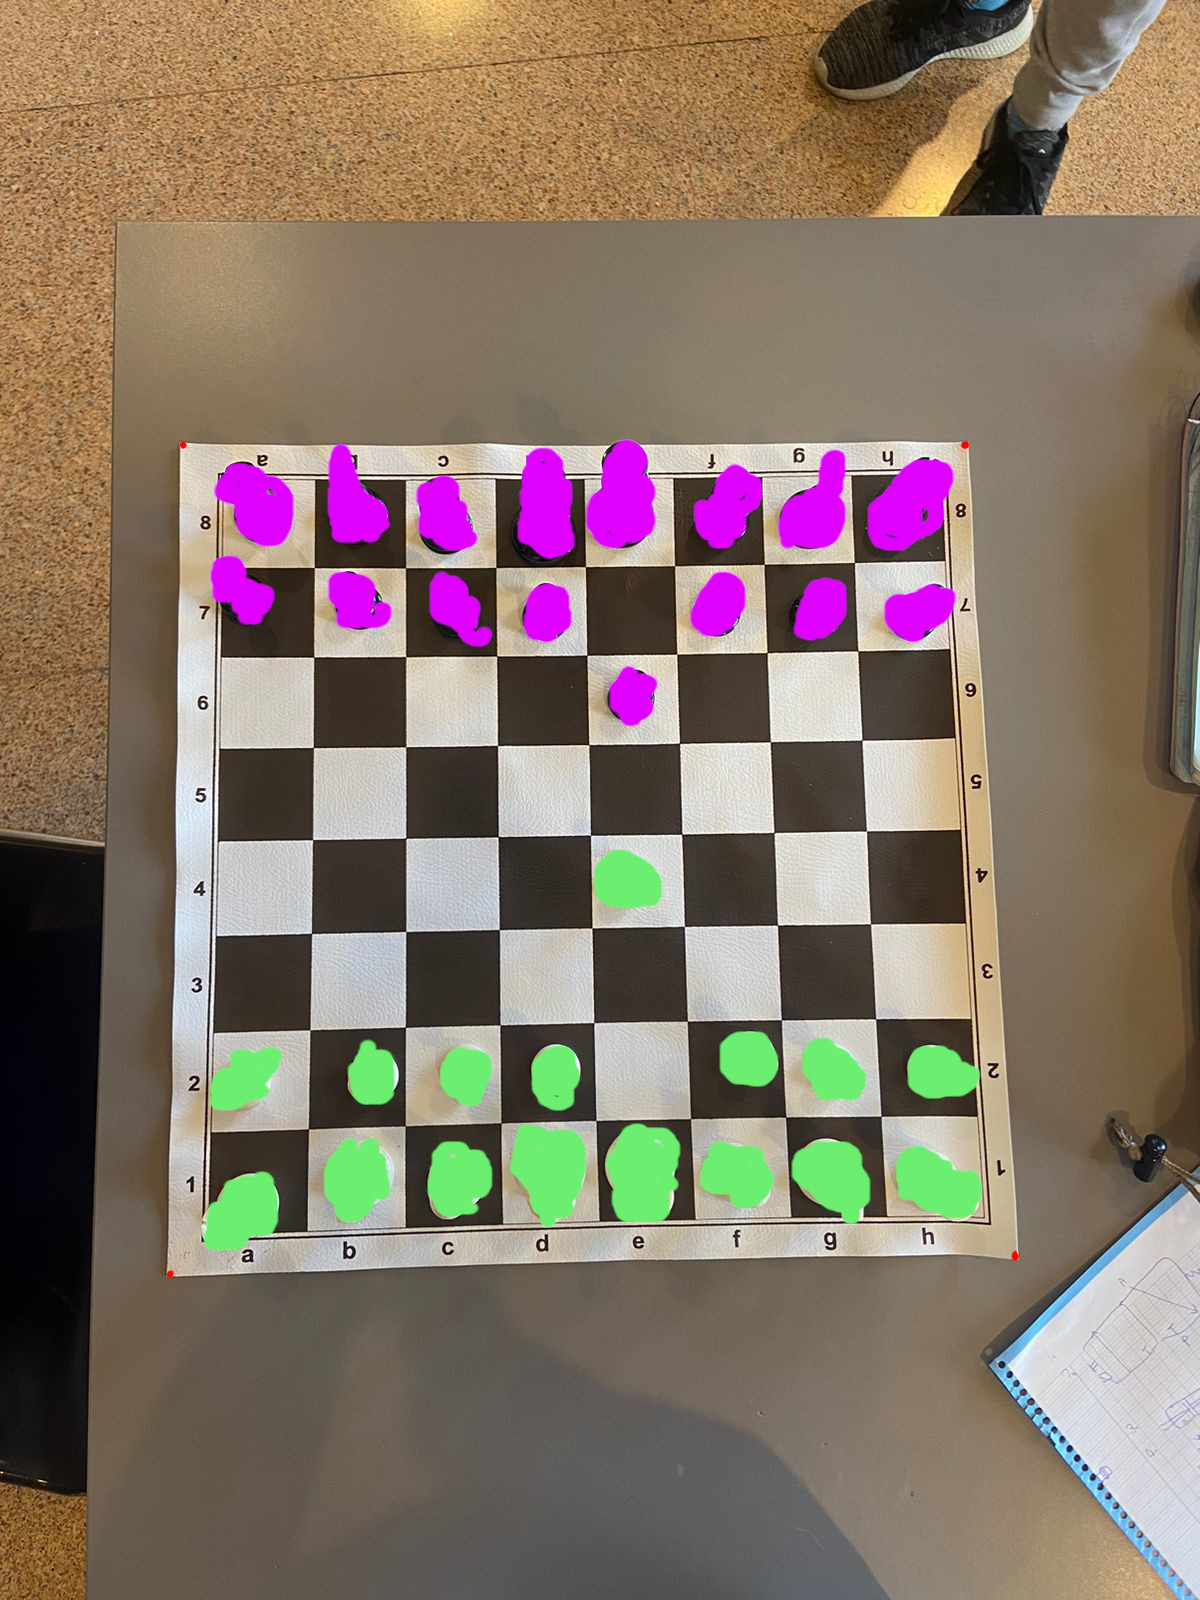
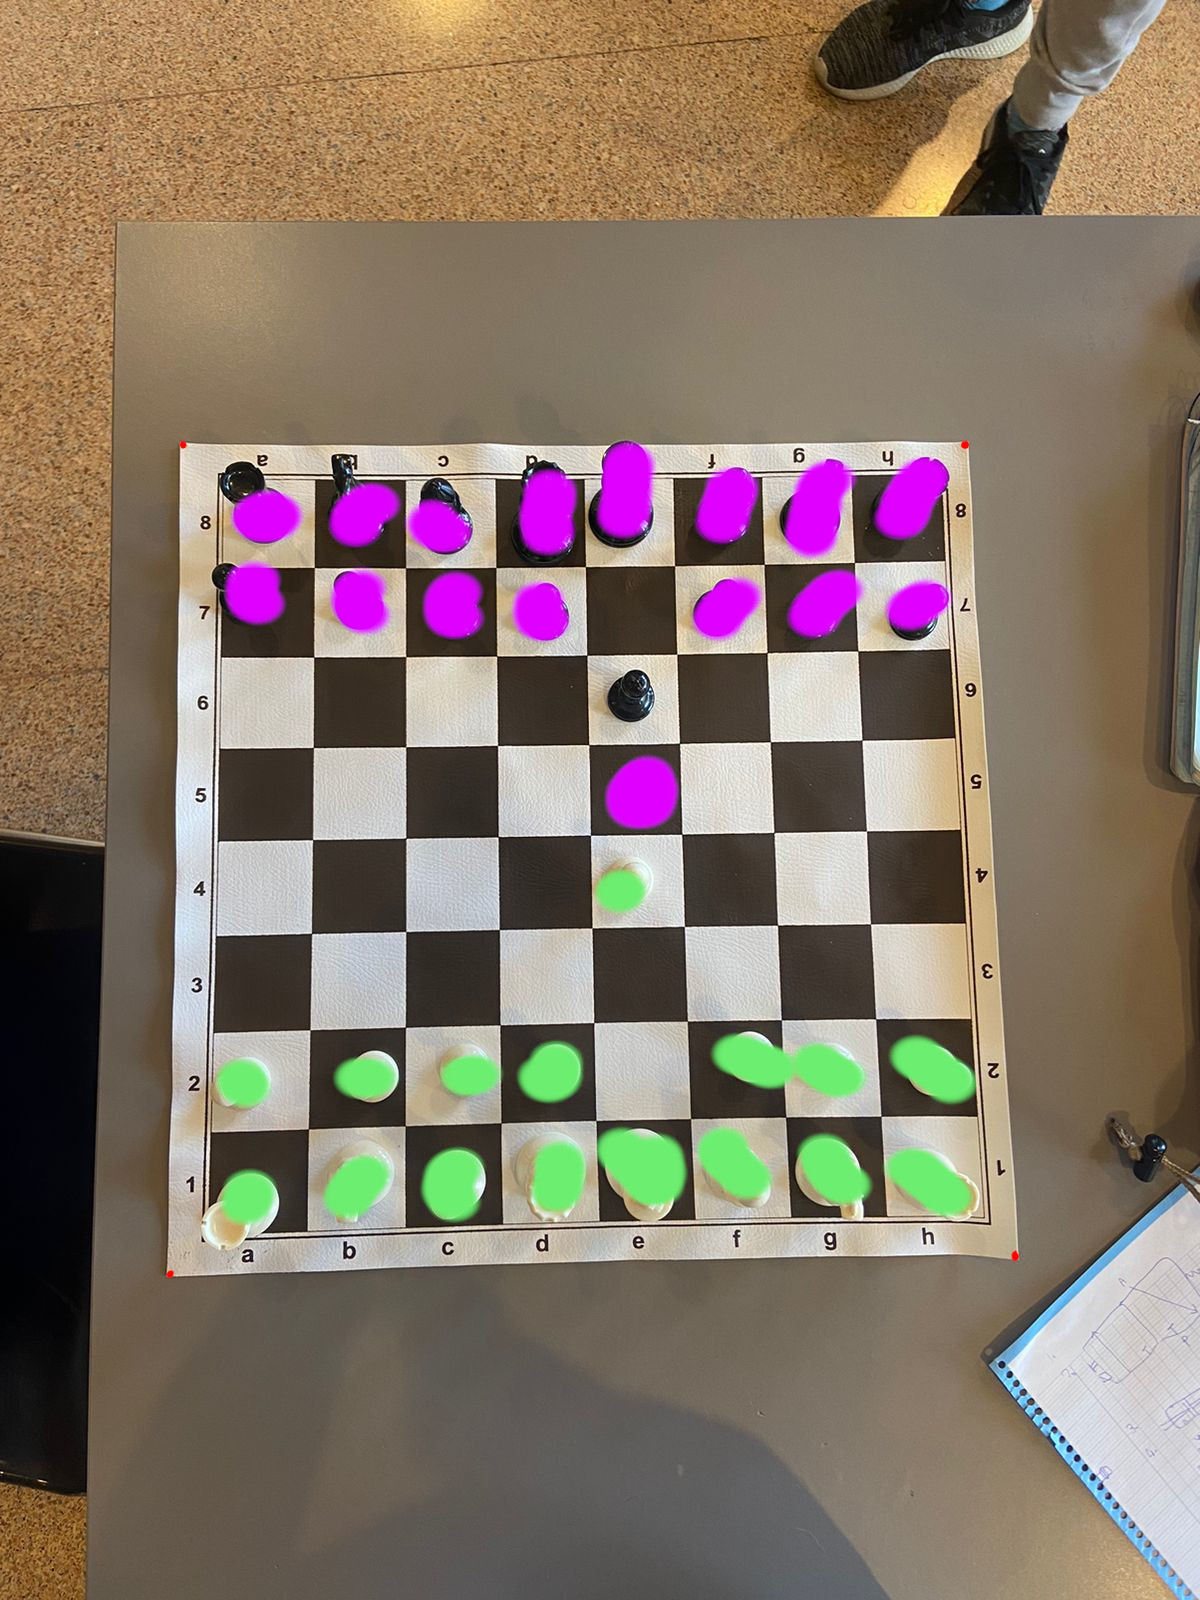
Add on robot move

diff --git a/src/cores/gm_core.py b/src/cores/gm_core.py
@@ -51,11 +51,11 @@ class GMCore:
         self.vision_core = VisionCore(hsv_min_b, hsv_max_b,
                                       hsv_min_w, hsv_max_w,
                                       hsv_min_marker, hsv_max_marker,
-                                      hsv_min_greenwhite,hsv_max_greenwhite,
+                                      hsv_min_greenwhite, hsv_max_greenwhite,
                                       hsv_min_blackpurple, hsv_max_blackpurple,
                                       use_camera=use_camera)
         self.control_core = ControlCore()
-        self.chess_core = ChessCore(engine_side="BLACK")
+        self.chess_core = ChessCore(engine_side="BLACK", is_simulation=is_simulation)
 
         listener = keyboard.Listener(
             on_press=self.on_key_press)
@@ -70,8 +70,8 @@ class GMCore:
                        "v: Visualize all positions\n" \
                        "b: Visualize last move analysis\n" \
                        "space: User move\n" \
+                       "r: Robot move\n" \
                        "m: Perform random move\n" \
-                       "space: User move\n" \
                        "q: Exit\n" \
                        "================\n"
         return instructions
@@ -79,17 +79,21 @@ class GMCore:
     def on_key_press(self, key):
 
         if 'char' in dir(key):
-            logger.info(f'Key {key.char} was pressed')
             if key.char == 'e':
                 self.on_empty_board()
-            if key.char == 'i':
+            elif key.char == 'i':
                 self.on_initial_board()
-            if key.char == 'm':
-                self.random_move()
-            if key.char == 'v':
+            # elif key.char == 'm':
+            #     self.random_move()
+            elif key.char == 'v':
                 self.vision_core.visualize_all_images()
-            if key.char == 'b':
+            elif key.char == 'b':
                 self.vision_core.visualize_last_move()
+            elif key.char == 'r':
+                self.on_robot_move()
+            else:
+                return
+            logger.info(f'Key {key.char} was pressed')
         if key == Key.space:
             logger.info(f"Key 'space' was pressed")
             self.on_user_move()
@@ -114,13 +118,18 @@ class GMCore:
         # ...
         self.chess_core.update_board(user_move)
 
+        # Wait x ms
+        # self.on_robot_move()
+
+    def on_robot_move(self):
         arm_move = self.chess_core.get_next_best_move()
         move_commands = self.chess_core.get_move_commands(arm_move)
         # # TODO: Call control core to make the next move
         # # ...
         #
-        # self.chess_core.update_board(arm_move)
-
+        # WAIT UNTIL MOVE IS COMPLETELY DONE
+        self.vision_core.update_images()
+        self.chess_core.update_board(arm_move)
 
     def spin(self):
         logger.info(f'Spinning ...')
